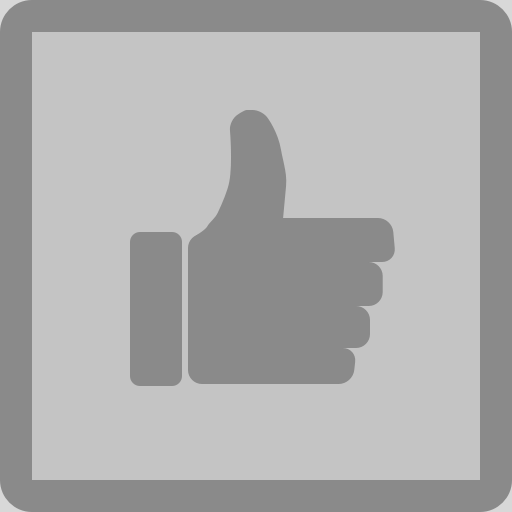
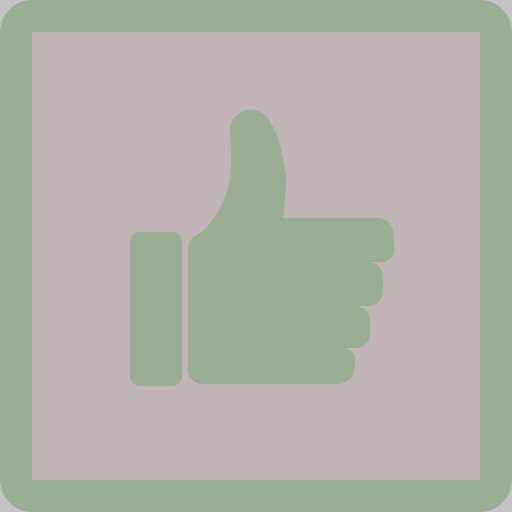
Kinda changing the grayscale versions of badges
Helping the alignment (thanks @diklein for the heads up!)

diff --git a/app/styles/modules/_badges.scss b/app/styles/modules/_badges.scss
@@ -26,10 +26,10 @@ badge {
   .grayscale {
     overflow: hidden;
     position: absolute;
-    -webkit-filter: contrast(40%);
-    filter: contrast(40%);
-    -webkit-filter: brightness(150%);
-    filter: brightness(150%);
+    // -webkit-filter: contrast(40%);
+    // filter: contrast(40%);
+    // -webkit-filter: brightness(150%);
+    // filter: brightness(150%);
   }
   .badge-info {
     margin-top: 10px;
